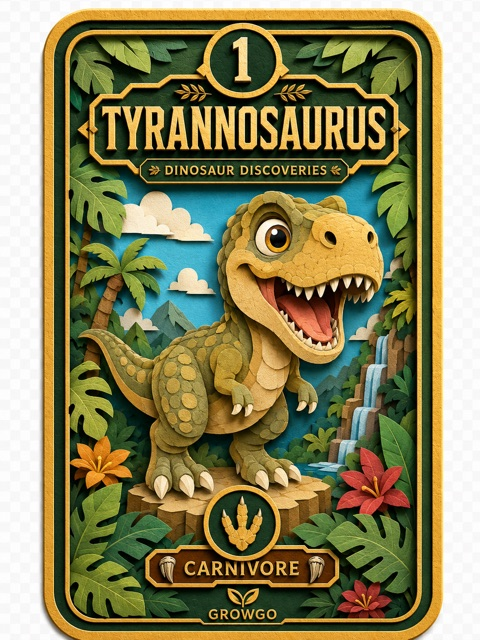
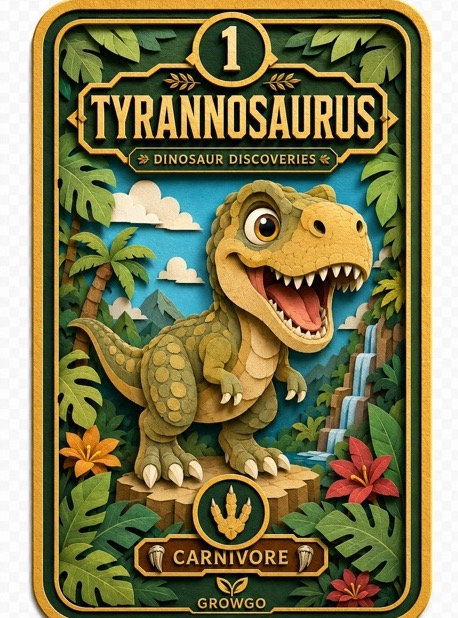
Crop dinosaur card assets to fit collection

diff --git a/script.js b/script.js
@@ -163,7 +163,7 @@ const CARD_SETS = [
     setName: "Dinosaur Discoveries",
     themeIcon: "🦖",
     themeClass: "dinosaur",
-    coverImage: "assets/cards/dinosaur-card-back.jpg",
+    coverImage: "assets/cards/dinosaur-card-back.jpg?v=2",
     totalCards: 24,
     completedTitle: "Fossil Hunter",
     completionAchievementId: "achievement-dinosaur-discoveries-complete",
@@ -199,7 +199,7 @@ const CARD_SETS = [
       cardNumber: index + 1,
       cardName,
       rarity: index === 0 ? "legendary" : index < 4 ? "rare" : index < 10 ? "uncommon" : "common",
-      image: index === 0 ? "assets/cards/t-rex-card.jpg" : null,
+      image: index === 0 ? "assets/cards/t-rex-card.jpg?v=2" : null,
       ghostImage: null,
       variationType: "normal",
       isAnimatedVariation: false,